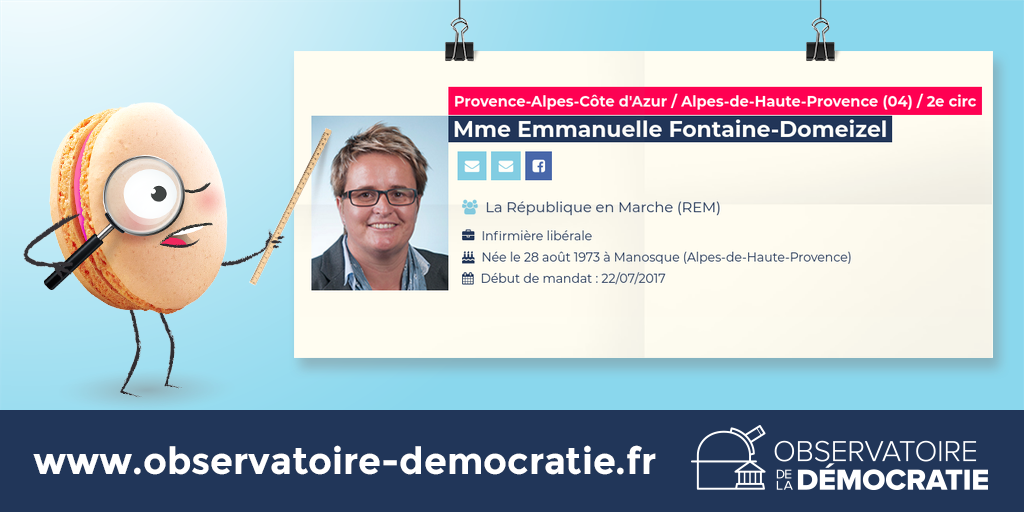
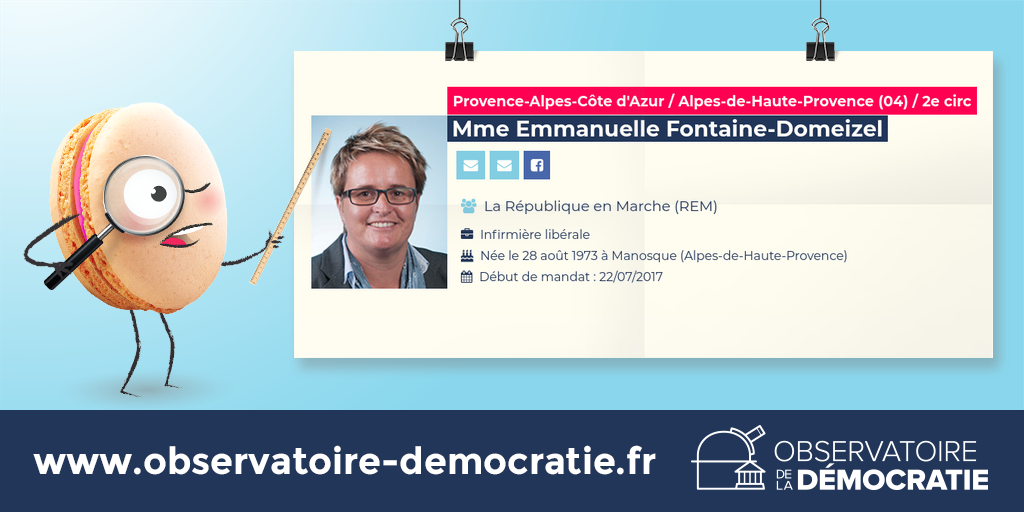
Générator

Changed region(s): [[0.3125, 0.1562, 0.9688, 0.5938], [0.3438, 0.2188, 0.375, 0.3125]]

diff --git a/obsapis/controllers/visuels.py b/obsapis/controllers/visuels.py
@@ -7,16 +7,23 @@ from PIL import Image,ImageFont,ImageDraw
 import StringIO
 
 def get_visuel(id,depute,regen=None):
-    tailles = [(d,len(d['depute_nom'])) for d in mdb.deputes.find({'depute_actif':True}) ]
-    tailles.sort(key=lambda x:x[1],reverse=True)
-    print tailles[:4]
-    dep = mdb.deputes.find_one({'depute_shortid':depute},{'depute_departement':1,'depute_region':1,'depute_circo':1,'depute_nom':1,'_id':None})
+    dep = mdb.deputes.find_one({'depute_shortid':depute},{'depute_naissance':1,'groupe_abrev':1,'groupe_libelle':1,'depute_departement':1,'depute_region':1,'depute_circo':1,'depute_nom':1,'_id':None})
     if not dep:
         return "nope"
     circo =  "%s / %s (999) / %se circ" % (dep['depute_region'],dep['depute_departement'],dep['depute_circo'])
-    font = ImageFont.truetype("Montserrat-Bold.ttf", 14)
-    widthfactor = int(680*(float(514)/max(450,font.getsize(circo)[0])))
-    widthfactor = 680
+    gp = "%s (%s)" % (dep['groupe_libelle'],dep['groupe_abrev'])
+    font1 = ImageFont.truetype("Montserrat-Bold.ttf", 14)
+    font2 = ImageFont.truetype("Montserrat-Bold.ttf", 21)
+    font3 = ImageFont.truetype("Montserrat-Bold.ttf", 11)
+    print font3.getsize(gp)
+    wf1 = int(680*(float(510)/font1.getsize(circo)[0]))
+    wf2 = int(680*(float(413)/font2.getsize(dep['depute_nom'])[0]))
+    wf3 = int(680*(float(457)/font3.getsize(dep['depute_naissance'])[0]))
+    wf4 = int(680*(float(320)/font3.getsize(gp)[0]))
+
+    print wf1,wf2,wf3,wf4
+
+    widthcor = 565
     path = '/'.join(app.instance_path.split('/')[:-1] +['obsapis','resources','visuels',id])
     imgpath = path+'/tous/'+depute+'.png'
     import os.path
@@ -35,7 +42,7 @@ def get_visuel(id,depute,regen=None):
     else:
         factor = 1.2
         url = "http://dev.observatoire-democratie.fr/assemblee/deputes/%s/votes" % depute
-        zone = (90,310,840,570)
+        zone = (90,310,840-(680-widthcor),570)
         size = '1200x1000'
     options.add_argument('window-size=%s' % size)
     options.add_argument('force-device-scale-factor=%0.1f' % factor)
@@ -70,7 +77,7 @@ def get_visuel(id,depute,regen=None):
         final = vis
     else:
         width, height = image2.size
-        image3 = image2.resize((widthfactor,int(widthfactor*float(height)/width)),Image.ANTIALIAS) #680
+        image3 = image2.resize((680,int(680*float(height)/width)),Image.ANTIALIAS) #680
         #image3 = image2
         vis = Image.open(path+'/share_2_1_fond.png') #.resize((1024,512))
         poster = Image.open(path+'/share_2_1_poster.png') #.resize((1024,512))
